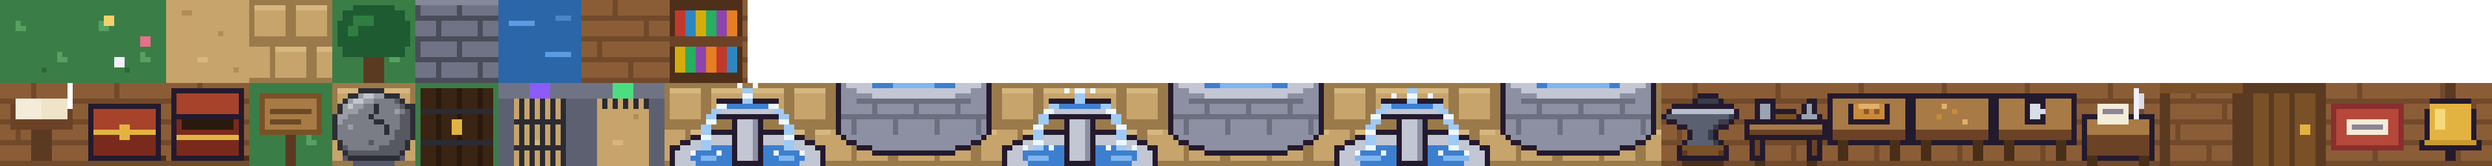
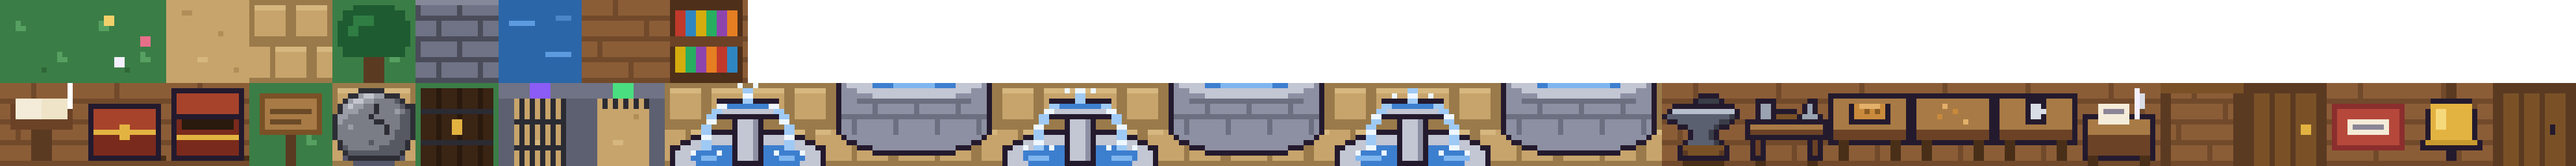
feat(art): add a chair, a shut door, and door and munching sounds
Tile 33, the table's cup end, becomes a chair, and tile 39 is the house's
door shut. Three new effects: the door creaking open, falling shut, and
someone else munching.

diff --git a/app/src/game/sound.ts b/app/src/game/sound.ts
@@ -37,6 +37,9 @@ export type Effect =
   | 'dialogNext'
   | 'smash'
   | 'bell'
+  | 'doorOpen'
+  | 'doorClose'
+  | 'munch'
 
 const STORAGE_KEY = 'pomerium-quest/sound/v1'
 
@@ -522,6 +525,26 @@ const EFFECTS: Record<Effect, (mix: Mixer, out: AudioNode, at: number) => void> 
     ] as const)
       for (const freq of [147, 156])
         tone(out, at + start, { wave: 'square', freq, dur, peak: 0.07, hold: true })
+  },
+  /** The house's door swinging open: a short wooden creak. */
+  doorOpen: (mix, out, at) => {
+    tone(out, at, { wave: 'sawtooth', freq: 180, to: 260, dur: 0.18, peak: 0.04 })
+    hiss(mix, out, at, { filter: 'bandpass', freq: 900, to: 1400, q: 3, attack: 0.03, dur: 0.18, peak: 0.12 })
+  },
+  /** The door falling shut: a soft thud and the latch clicking. */
+  doorClose: (mix, out, at) => {
+    tone(out, at, { wave: 'sine', freq: 110, to: 55, dur: 0.12, peak: 0.25 })
+    hiss(mix, out, at, { filter: 'lowpass', freq: 600, dur: 0.08, peak: 0.2 })
+    tone(out, at + 0.07, { wave: 'square', freq: 1900, dur: 0.02, peak: 0.04 })
+  },
+  /** Someone else eating: two small crunches, never quite the same twice, quieter than the player's chomp. */
+  munch: (mix, out, at) => {
+    for (const bite of [0, 0.14 + Math.random() * 0.05]) {
+      const freq = 1200 + Math.random() * 800
+
+      hiss(mix, out, at + bite, { filter: 'bandpass', freq, to: freq / 2, q: 1.2, dur: 0.06, peak: 0.3 })
+      tone(out, at + bite, { wave: 'square', freq: 190, to: 120, dur: 0.05, peak: 0.04 })
+    }
   },
   clang: (_mix, out, at) => {
     tone(out, at, { wave: 'square', freq: 1180, dur: 0.25, peak: 0.05 })

diff --git a/app/src/game/sheets.ts b/app/src/game/sheets.ts
@@ -3,5 +3,5 @@ export const SHEETS = {
   dog: '/assets/dog.png?v=0be57c5f01',
   items: '/assets/items.png?v=384674e5ad',
   npcs: '/assets/npcs.png?v=0a14d991e9',
-  tiles: '/assets/tiles.png?v=e1cb438744',
+  tiles: '/assets/tiles.png?v=2e0a021089',
 } as const
